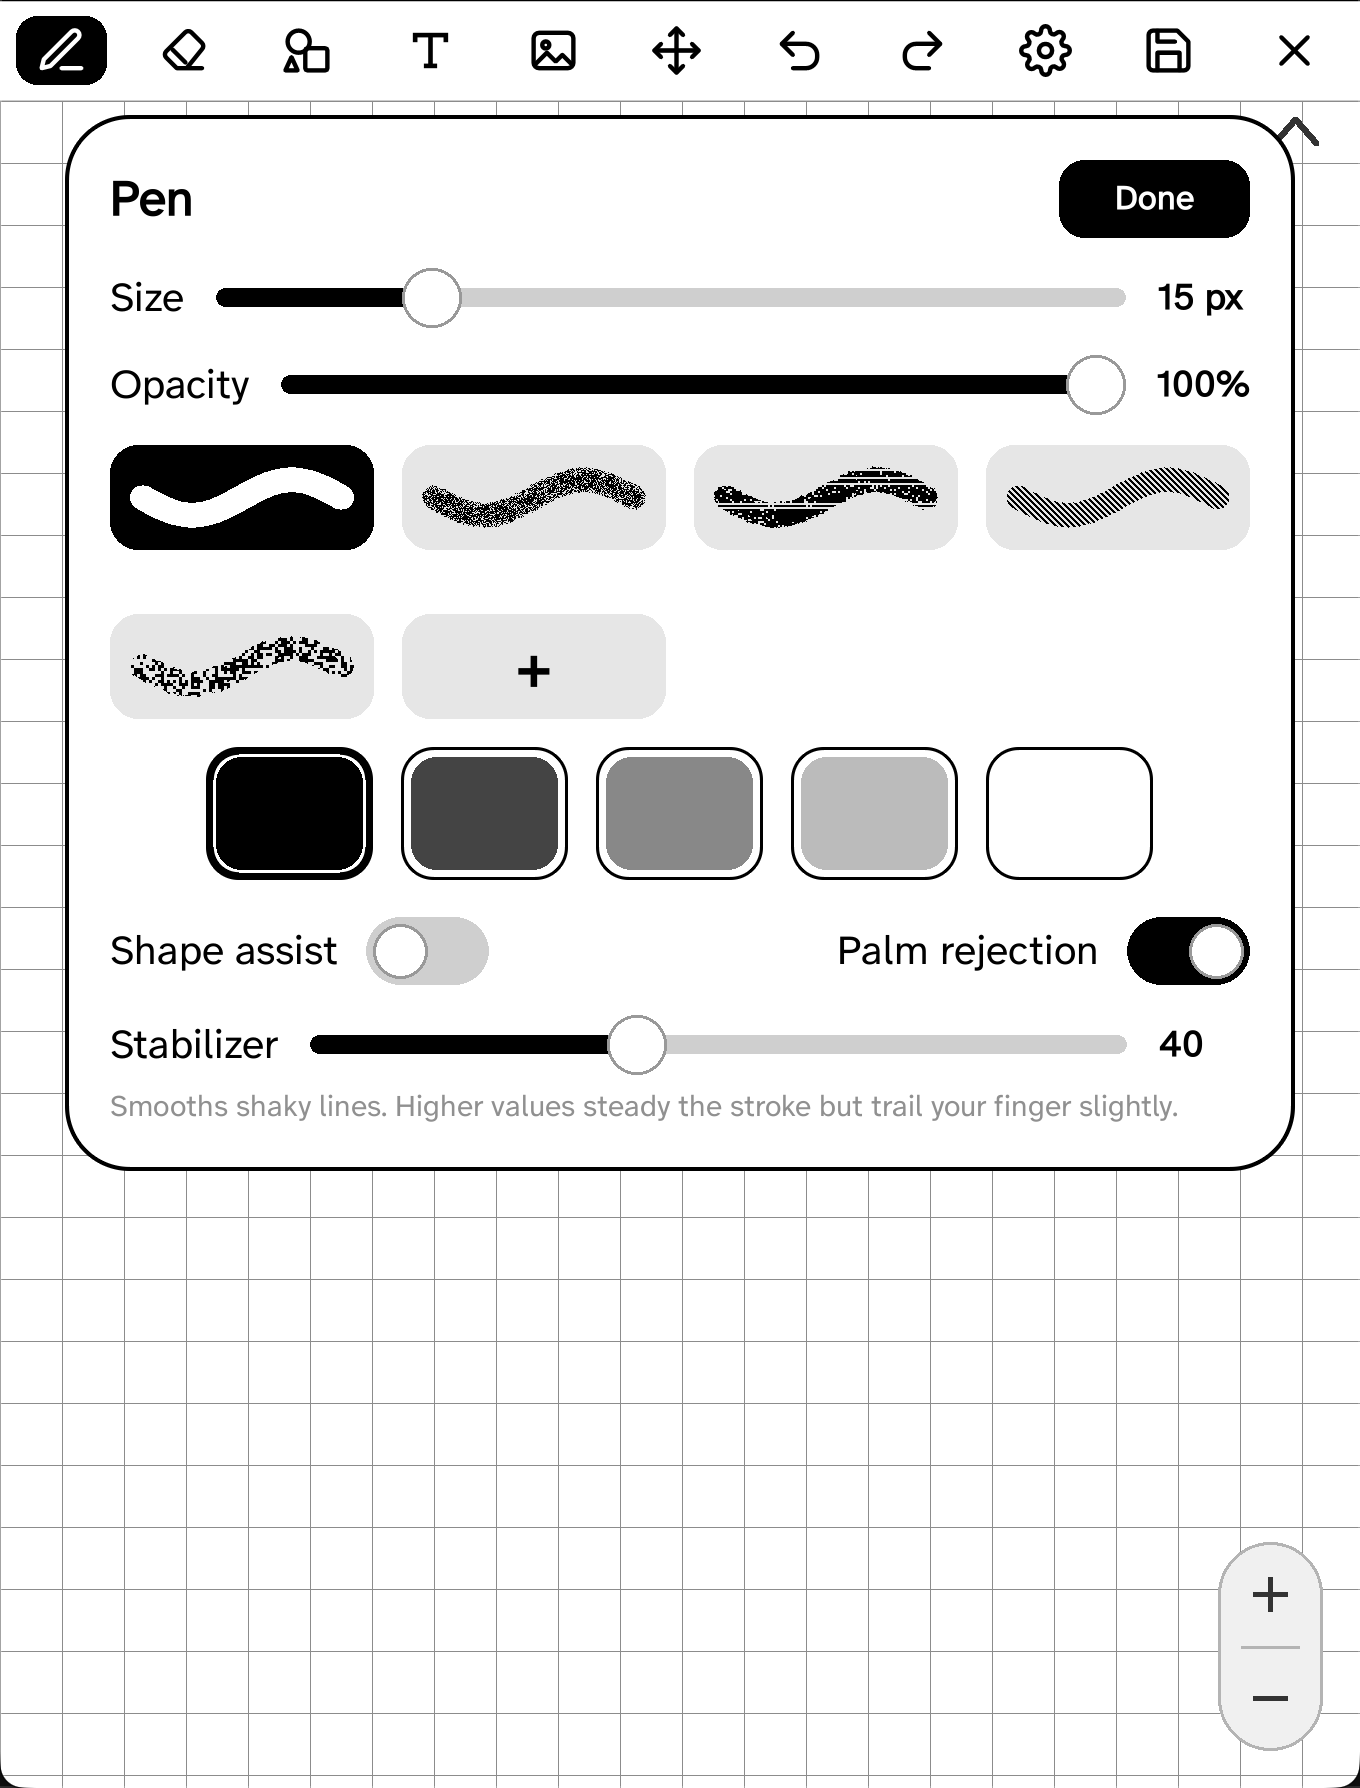
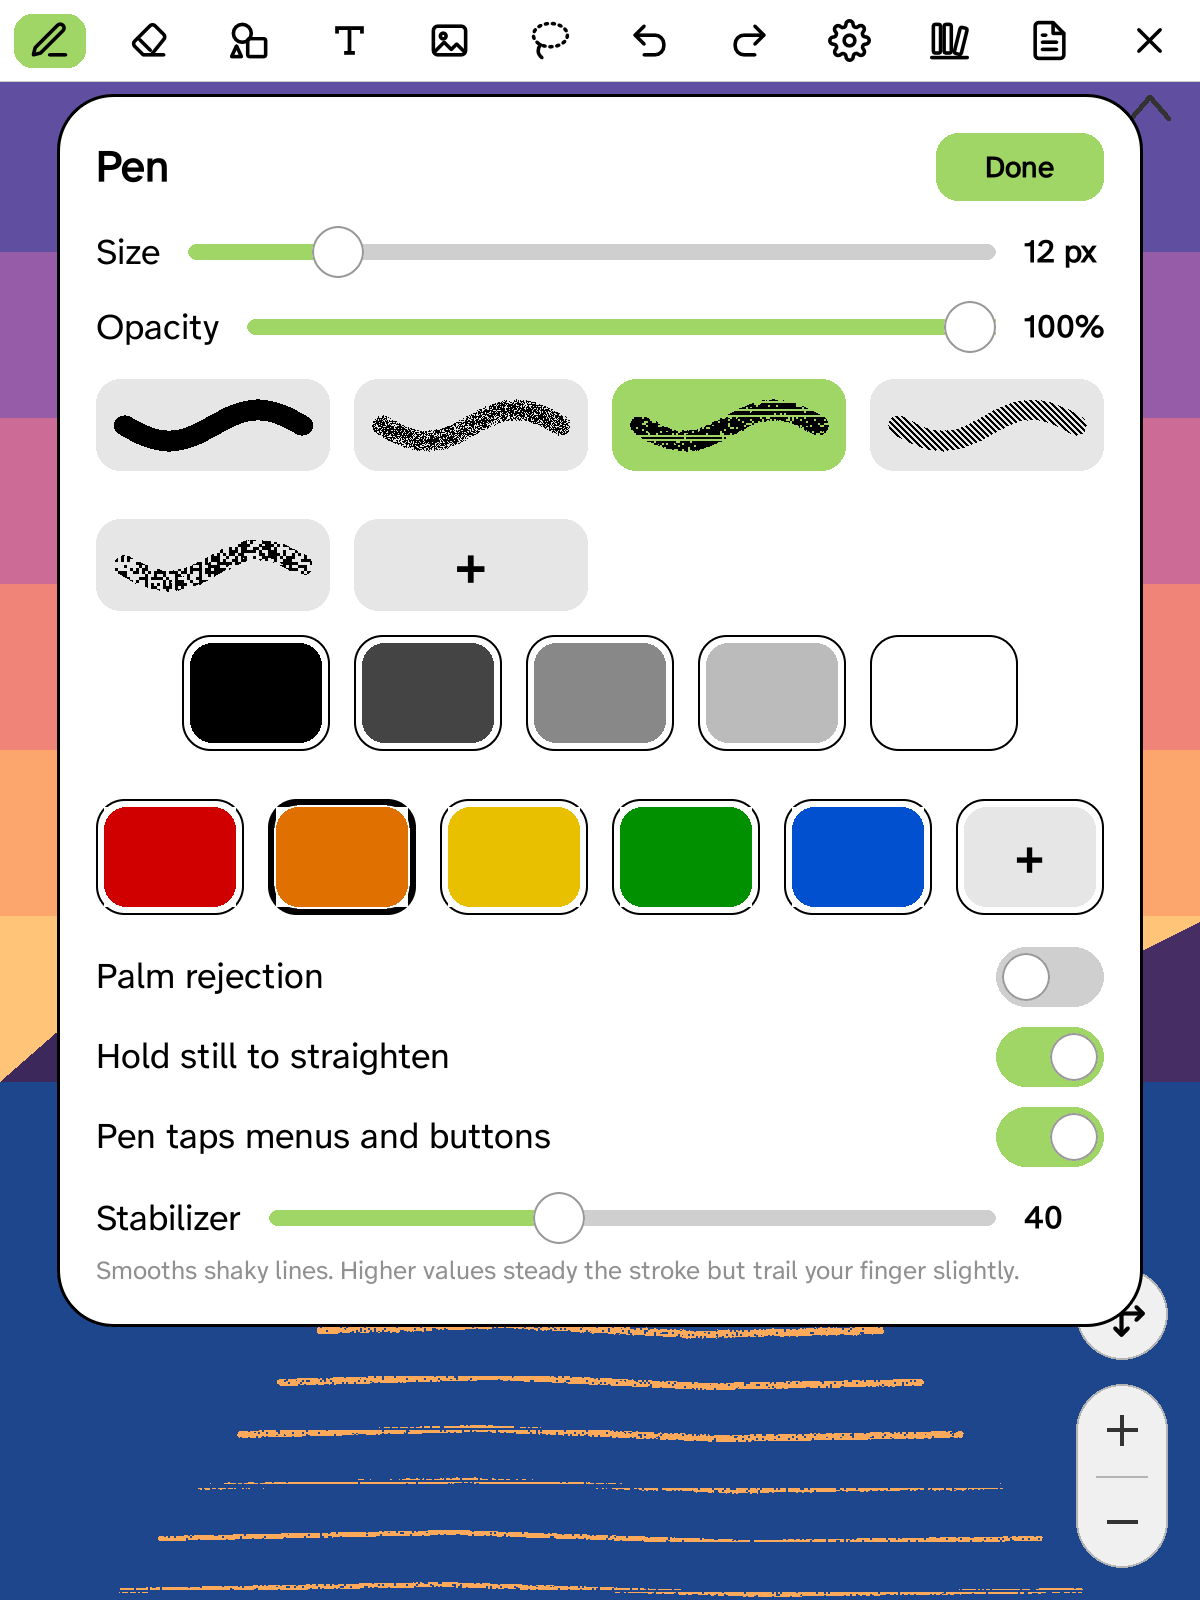
New README screenshots, in colour
Nine screenshots of the current version on a colour screen in place of the six
grey ones: the library, a folder's notebooks as tabs, search, a notebook page,
a lasso selection with its menu, the pen settings, the new notebook papers, a
PDF written on, and a contents page. The notebooks in them are made up: the
handwriting comes from the UJI Pen Characters set and the worksheet PDF was
made for them.

diff --git a/README.md b/README.md
@@ -6,14 +6,19 @@ A **drawing** & **note-taking** app for KOReader, with **palm rejection** for st
 
 <table>
   <tr>
-    <td width="33%" valign="top"><a href="assets/screenshots/pen-settings.png"><img src="assets/screenshots/pen-settings.png" alt="Pen settings"></a><br><sub>The pen: size, opacity, brush style and shade, with palm rejection.</sub></td>
-    <td width="33%" valign="top"><a href="assets/screenshots/brush-maker.png"><img src="assets/screenshots/brush-maker.png" alt="Brush maker"></a><br><sub>Design your own brush while a sample stroke redraws live.</sub></td>
-    <td width="33%" valign="top"><a href="assets/screenshots/shapes-menu.png"><img src="assets/screenshots/shapes-menu.png" alt="Shapes menu"></a><br><sub>Shapes and arrows, a fill toggle, snapping, paint bucket and lasso.</sub></td>
+    <td width="33%" valign="top"><a href="assets/screenshots/library.png"><img src="assets/screenshots/library.png" alt="Library"></a><br><sub>The library: folders, notebooks and drawings, saved as you go.</sub></td>
+    <td width="33%" valign="top"><a href="assets/screenshots/browse.png"><img src="assets/screenshots/browse.png" alt="Notebooks in a folder"></a><br><sub>A folder's notebooks as coloured tabs, with every page at a glance.</sub></td>
+    <td width="33%" valign="top"><a href="assets/screenshots/search.png"><img src="assets/screenshots/search.png" alt="Search"></a><br><sub>Search names, or the typed and converted text inside pages.</sub></td>
   </tr>
   <tr>
-    <td width="33%" valign="top"><a href="assets/screenshots/text-settings.png"><img src="assets/screenshots/text-settings.png" alt="Text settings"></a><br><sub>Typed text with any installed font, sizing and ruling snap.</sub></td>
-    <td width="33%" valign="top"><a href="assets/screenshots/settings-menu.png"><img src="assets/screenshots/settings-menu.png" alt="Settings"></a><br><sub>Notebooks, open a PDF to annotate, grid, symmetry and autosave.</sub></td>
-    <td width="33%" valign="top"><a href="assets/screenshots/notebook.png"><img src="assets/screenshots/notebook.png" alt="Notebook page"></a><br><sub>A notebook page with handwritten notes, an image and shapes.</sub></td>
+    <td width="33%" valign="top"><a href="assets/screenshots/notebook-page.png"><img src="assets/screenshots/notebook-page.png" alt="Notebook page"></a><br><sub>Handwriting, typed text and diagrams on lined, grid or dotted paper, in colour.</sub></td>
+    <td width="33%" valign="top"><a href="assets/screenshots/lasso-selection.png"><img src="assets/screenshots/lasso-selection.png" alt="Lasso selection"></a><br><sub>Lasso anything to move, resize, rotate, recolour or link it, or turn writing into text.</sub></td>
+    <td width="33%" valign="top"><a href="assets/screenshots/pen-settings.png"><img src="assets/screenshots/pen-settings.png" alt="Pen settings"></a><br><sub>Brushes, greys and colours, palm rejection, and hold still to straighten.</sub></td>
+  </tr>
+  <tr>
+    <td width="33%" valign="top"><a href="assets/screenshots/new-notebook.png"><img src="assets/screenshots/new-notebook.png" alt="New notebook"></a><br><sub>Start a notebook on the paper you need, or from a PDF.</sub></td>
+    <td width="33%" valign="top"><a href="assets/screenshots/pdf-annotation.png"><img src="assets/screenshots/pdf-annotation.png" alt="PDF annotation"></a><br><sub>Open a PDF and write on it, then export it with your ink.</sub></td>
+    <td width="33%" valign="top"><a href="assets/screenshots/contents-page.png"><img src="assets/screenshots/contents-page.png" alt="Contents page"></a><br><sub>A contents page that links to your titled pages.</sub></td>
   </tr>
 </table>
 
